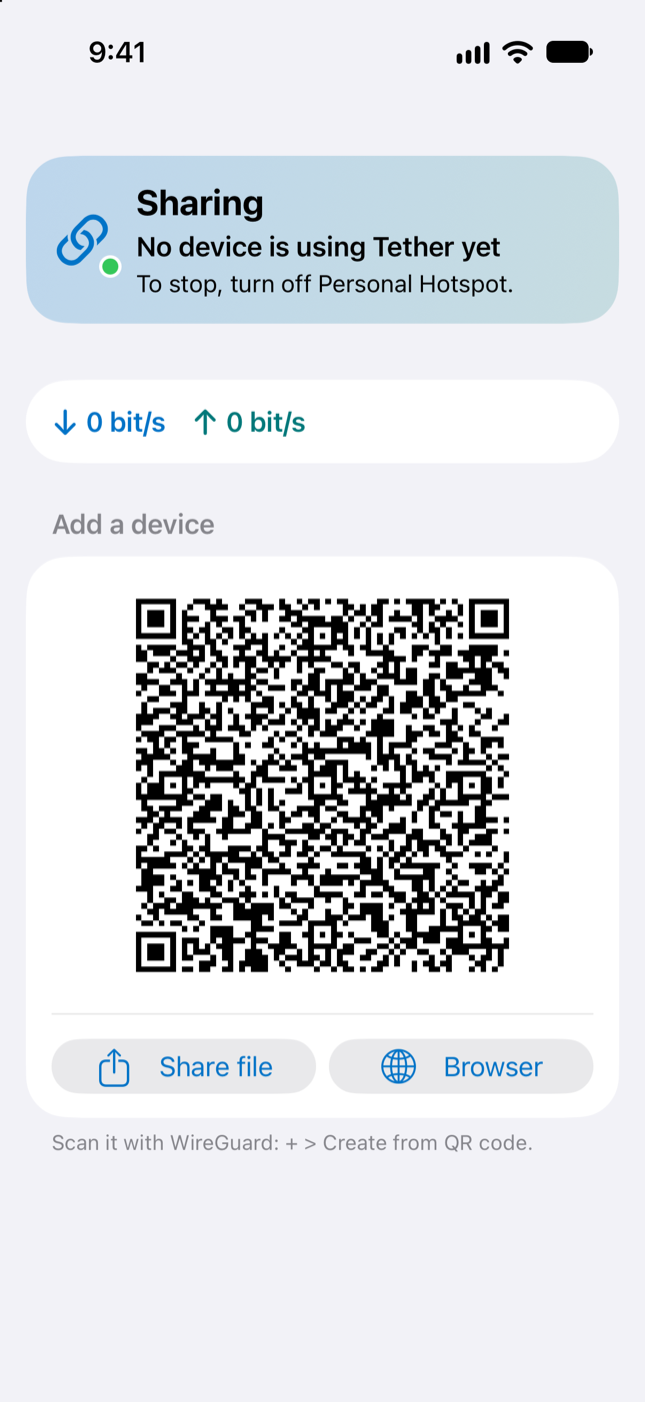
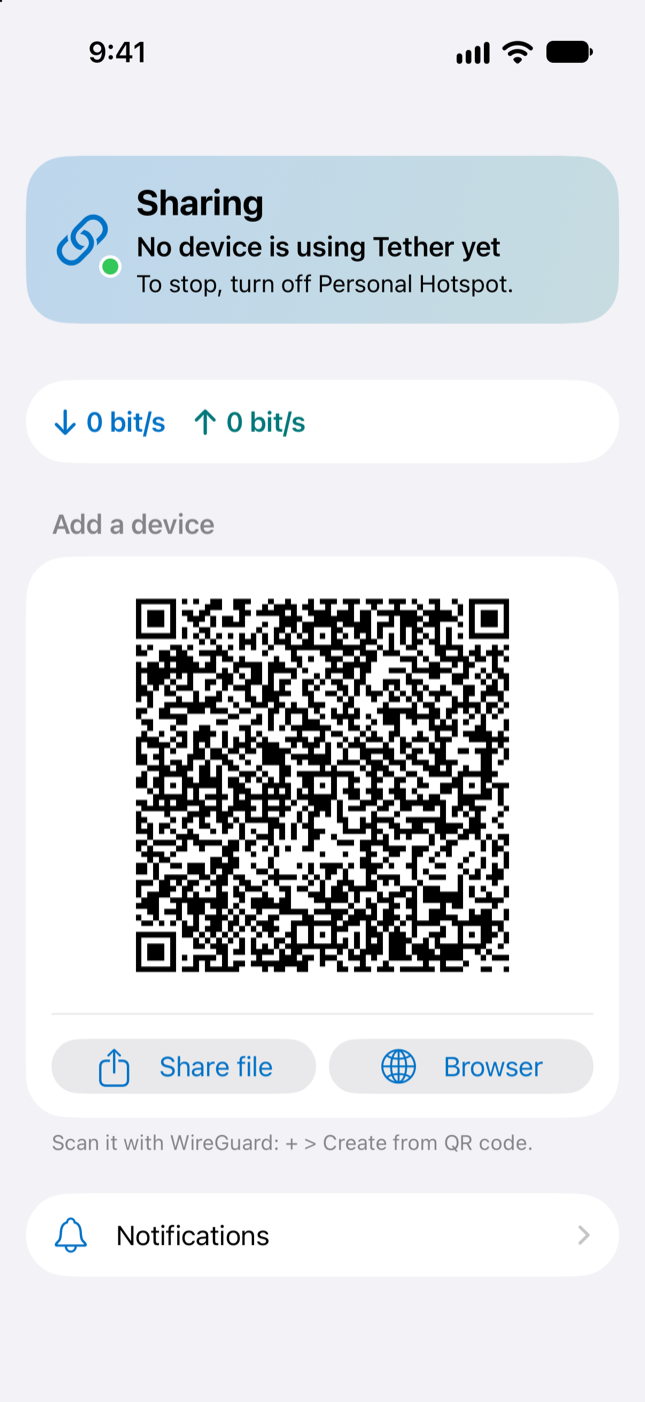
Point each release's images at its tag, and add a notifications screenshot
SideStore showed v1.1.0 with the old screenshots. source.json pointed at the files on main, whose URLs never change, so SideStore kept the copies it cached for an earlier release. Each release's source.json now points the icon and screenshots at its own tag, so a new release has new URLs, and its images match its build.

A third screenshot shows the Notifications screen, in SideStore, the README and the landing page. A notificationsScreen demo opens on that screen with notifications allowed, and screenshots.sh takes it. The README screenshots are redone.

Fixes #54

Changed region(s): [[0.186, 0.4294, 0.8062, 0.7054], [0.186, 0.8588, 0.4031, 0.8894], [0.093, 0.8588, 0.124, 0.8894]]

diff --git a/Sources/DemoMode.swift b/Sources/DemoMode.swift
@@ -34,6 +34,9 @@ enum DemoScenario: String, CaseIterable {
     /// Like `sharing`, and it asks for permission on screen at launch, through the real notification
     /// center, if it never asked. Leaving the screen posts `notice`.
     case notifying
+    /// Like `sharing`, opened on the Notifications screen with notifications allowed, for the
+    /// screenshot.
+    case notificationsScreen
 
     static let argument = "-TetherDemo"
 
@@ -104,7 +107,7 @@ struct DemoState {
     func secrets() -> SecretStore {
         let secrets = InMemorySecrets()
         switch scenario {
-        case .sharing, .wireGuardLocked, .expiring, .qrCodeUnsaved, .notificationsOff, .notifying:
+        case .sharing, .wireGuardLocked, .expiring, .qrCodeUnsaved, .notificationsOff, .notifying, .notificationsScreen:
             var setup = WireGuardSetup.new()
             _ = setup.addPeer(name: "iPad")
             _ = setup.addPeer(name: "Windows PC")
@@ -132,6 +135,7 @@ struct DemoState {
         switch scenario {
         case .notifying: nil
         case .notificationsOff: DemoNoticeCenter(.denied)
+        case .notificationsScreen: DemoNoticeCenter(.allowed)
         default: DemoNoticeCenter(.notAsked)
         }
     }
@@ -142,7 +146,7 @@ struct DemoState {
         model.downSpeed = downSpeed
         model.upSpeed = upSpeed
         // The iPad's tunnel is up, the Windows PC's isn't, so the list shows both states.
-        model.wireGuardConnected = [.sharing, .expiring, .qrCodeUnsaved, .notificationsOff, .notifying].contains(scenario) ? ["10.7.0.2"] : []
+        model.wireGuardConnected = [.sharing, .expiring, .qrCodeUnsaved, .notificationsOff, .notifying, .notificationsScreen].contains(scenario) ? ["10.7.0.2"] : []
         model.expires = scenario == .expiring ? DemoScenario.now.addingTimeInterval(2 * 86_400) : nil
     }
 }

diff --git a/Sources/MainView.swift b/Sources/MainView.swift
@@ -12,6 +12,9 @@ struct MainView: View {
             : AnyLayout(HStackLayout())
     }
 
+    /// Only the `notificationsScreen` demo sets it, for the screenshot. The row opens the screen itself.
+    @State private var showNotices = false
+
     var body: some View {
         NavigationStack {
             List {
@@ -73,6 +76,8 @@ struct MainView: View {
             // The status card says what this screen is, so the root drops the big title. It's still set,
             // because the screens pushed from here use it for their back button.
             .navigationTitle("Tether")
+            .navigationDestination(isPresented: $showNotices) { NoticesView(model: model) }
+            .onAppear { if model.opensNotices { showNotices = true } }
             .toolbar(.hidden, for: .navigationBar)
         }
     }

diff --git a/UITests/TetherUITestCase.swift b/UITests/TetherUITestCase.swift
@@ -3,7 +3,7 @@ import XCTest
 /// The fake app states a test can launch (`-TetherDemo <name>`, see Sources/DemoMode.swift).
 /// Their fixed values are described there.
 enum Scenario: String {
-    case waiting, wireGuardLockedWaiting, noDevices, sharing, wireGuardLocked, wireGuardNeedsReset, wireGuardUnsaved, qrCodeUnsaved, expiring, notificationsOff, notifying
+    case waiting, wireGuardLockedWaiting, noDevices, sharing, wireGuardLocked, wireGuardNeedsReset, wireGuardUnsaved, qrCodeUnsaved, expiring, notificationsOff, notifying, notificationsScreen
 }
 
 /// Base class for the screen tests: launching, finding things by identifier, scrolling a List.

diff --git a/UITests/NotificationsTests.swift b/UITests/NotificationsTests.swift
@@ -88,4 +88,11 @@ final class NotificationsTests: TetherUITestCase {
         reveal(element("notices.open"))
         try audit(types: structuralAudit)
     }
+
+    /// The screenshot's scenario opens on the Notifications screen, with nothing to allow.
+    func testTheScreenshotScenarioOpensOnTheNotificationsScreen() {
+        launch(.notificationsScreen)
+        XCTAssertTrue(app.navigationBars["Notifications"].waitForExistence(timeout: 5))
+        assertNowhere(element("notices.allow"), element("notices.denied"))
+    }
 }

diff --git a/docs/index.html b/docs/index.html
@@ -201,6 +201,10 @@
           <img src="add-device.png" alt="Tether with the hotspot on and a QR code for the first device">
           <figcaption>A new device scans the code or opens the page</figcaption>
         </figure>
+        <figure>
+          <img src="notifications.png" alt="Tether's Notifications screen with a switch for each kind">
+          <figcaption>Notifications when a device comes or goes</figcaption>
+        </figure>
       </div>
     </div>
   </section>

diff --git a/Sources/Model.swift b/Sources/Model.swift
@@ -76,6 +76,10 @@ final class Model: ObservableObject {
     #if DEBUG
     /// Set in a demo launch (`-TetherDemo`, see DemoMode.swift). Nothing real runs then.
     private var demo: DemoState?
+    /// The `notificationsScreen` demo opens on the Notifications screen.
+    var opensNotices: Bool { demo?.scenario == .notificationsScreen }
+    #else
+    var opensNotices: Bool { false }
     #endif
 
     init() {

diff --git a/scripts/make_source.py b/scripts/make_source.py
@@ -13,7 +13,9 @@ import zipfile
 from pathlib import Path
 
 REPO = "https://github.com/viktor-svirsky/tether"
-RAW = "https://raw.githubusercontent.com/viktor-svirsky/tether/main"
+# The release's own tag, so each release's screenshots get new URLs: SideStore keeps showing
+# what it cached for an unchanged URL, even after the file changed on main.
+RAW = "https://raw.githubusercontent.com/viktor-svirsky/tether/{tag}"
 
 
 def info_plist(ipa):
@@ -49,8 +51,8 @@ def source(ipa, tag, date):
                     "again from the iPhone, so the traffic counts as the phone's own. "
                     f"Setup and caveats: {REPO}#readme"
                 ),
-                "iconURL": f"{RAW}/Sources/Assets.xcassets/AppIcon.appiconset/icon-1024.png",
-                "screenshots": [f"{RAW}/docs/sharing.png", f"{RAW}/docs/add-device.png"],
+                "iconURL": f"{RAW.format(tag=tag)}/Sources/Assets.xcassets/AppIcon.appiconset/icon-1024.png",
+                "screenshots": [f"{RAW.format(tag=tag)}/docs/{name}.png" for name in ("sharing", "add-device", "notifications")],
                 "category": "utilities",
                 # The IPA is unsigned and has no entitlements. The signing app adds its own.
                 "appPermissions": {

diff --git a/scripts/test_make_source.py b/scripts/test_make_source.py
@@ -60,6 +60,13 @@ class MakeSourceTests(unittest.TestCase):
             "https://github.com/viktor-svirsky/tether/releases/download/v1.2.0/Tether.ipa",
         )
 
+    # SideStore keeps showing what it cached for an unchanged URL, so each release's images are its tag's.
+    def test_the_images_point_at_this_release(self):
+        app = self.app()
+        raw = "https://raw.githubusercontent.com/viktor-svirsky/tether/v1.2.0"
+        self.assertEqual(app["iconURL"], f"{raw}/Sources/Assets.xcassets/AppIcon.appiconset/icon-1024.png")
+        self.assertEqual(app["screenshots"], [f"{raw}/docs/sharing.png", f"{raw}/docs/add-device.png", f"{raw}/docs/notifications.png"])
+
     # AltStore refuses an app whose permissions don't match the IPA, so every usage description is listed.
     def test_the_privacy_keys_are_every_usage_description(self):
         self.assertEqual(

diff --git a/TESTING.md b/TESTING.md
@@ -67,7 +67,7 @@ XCUITests in `UITests/` walk every screen and flow of the app: the status card, 
 
 Run them on the oldest and the newest iOS you can, since iOS versions differ in small ways (section headers in capitals or not, a dialog with or without Cancel). Actions > UI tests runs them on iOS 18.5 on an iPhone SE, the smallest screen, and on the newest iOS GitHub's runners have. iOS 17, the oldest Tether supports, isn't available as a simulator for Xcode 27 or on GitHub's runners, so check it on a phone. For an iOS that GitHub's runners don't have yet, run the command above on a Mac with that simulator (`xcodebuild -downloadPlatform iOS` downloads the newest).
 
-A simulator has no Personal Hotspot and nothing to share, so each test launches the app with `-TetherDemo <scenario>` (see `Sources/DemoMode.swift`). The scenarios are fixed fake states: `waiting`, `noDevices`, `sharing` (devices iPad connected and Windows PC not, and a speed), `wireGuardLocked` (the Keychain is locked: WireGuard shows its problem and there is no QR code), `wireGuardLockedWaiting` (the same with the hotspot off: the problem shows from launch), `wireGuardNeedsReset` (the saved WireGuard keys can't be read, so only "Start over with new keys" gets past it, and then the QR code appears), `wireGuardUnsaved` (a first launch whose new keys can't be saved: no QR code and WireGuard isn't running), `qrCodeUnsaved` (sharing, but nothing can be saved: the section for the next device says why there's no code, and a device's screen says a rename or removal couldn't be saved) `expiring` (sharing, two days before the build stops opening), `notificationsOff` (sharing, with notifications off for Tether in Settings) and `notifying` (sharing, it asks for permission on screen through the real notification center, and leaving the screen posts one notice). The notification switches of a demo launch live in their own UserDefaults, emptied at each launch. The WireGuard setup lives in an in-memory store in a demo launch, never the Keychain. In a demo launch the app starts no server, audio, watcher or sampler. The code is `#if DEBUG`, so a Release build does not contain it. A launch without the argument is the real app, and `NormalLaunchTests` checks that.
+A simulator has no Personal Hotspot and nothing to share, so each test launches the app with `-TetherDemo <scenario>` (see `Sources/DemoMode.swift`). The scenarios are fixed fake states: `waiting`, `noDevices`, `sharing` (devices iPad connected and Windows PC not, and a speed), `wireGuardLocked` (the Keychain is locked: WireGuard shows its problem and there is no QR code), `wireGuardLockedWaiting` (the same with the hotspot off: the problem shows from launch), `wireGuardNeedsReset` (the saved WireGuard keys can't be read, so only "Start over with new keys" gets past it, and then the QR code appears), `wireGuardUnsaved` (a first launch whose new keys can't be saved: no QR code and WireGuard isn't running), `qrCodeUnsaved` (sharing, but nothing can be saved: the section for the next device says why there's no code, and a device's screen says a rename or removal couldn't be saved), `expiring` (sharing, two days before the build stops opening), `notificationsOff` (sharing, with notifications off for Tether in Settings), `notifying` (sharing, it asks for permission on screen through the real notification center, and leaving the screen posts one notice) and `notificationsScreen` (sharing, opened on the Notifications screen with notifications allowed, for the screenshot). The notification switches of a demo launch live in their own UserDefaults, emptied at each launch. The WireGuard setup lives in an in-memory store in a demo launch, never the Keychain. In a demo launch the app starts no server, audio, watcher or sampler. The code is `#if DEBUG`, so a Release build does not contain it. A launch without the argument is the real app, and `NormalLaunchTests` checks that.
 
 ## 3. By hand, with someone on the other end
 

diff --git a/README.md b/README.md
@@ -12,7 +12,7 @@
 
 Lots of plans give the iPhone itself plenty of data, then cap, slow down or block Personal Hotspot. Tether makes every connection again on the iPhone itself, so your laptop's traffic counts as the phone's own. Windows, Mac, Linux, Android, iPad or a travel router: if it runs WireGuard, it works.
 
-<img src="docs/sharing.png" width="260" alt="Tether sharing with an iPad and a Windows PC, with the speed and the list of devices"> <img src="docs/add-device.png" width="260" alt="Tether with the hotspot on and a QR code for the first device">
+<img src="docs/sharing.png" width="260" alt="Tether sharing with an iPad and a Windows PC, with the speed and the list of devices"> <img src="docs/add-device.png" width="260" alt="Tether with the hotspot on and a QR code for the first device"> <img src="docs/notifications.png" width="260" alt="Tether's Notifications screen with a switch for each kind">
 
 ## What you get
 
